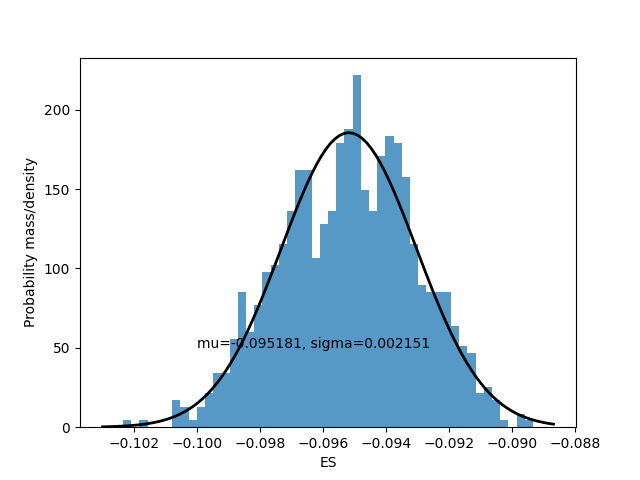
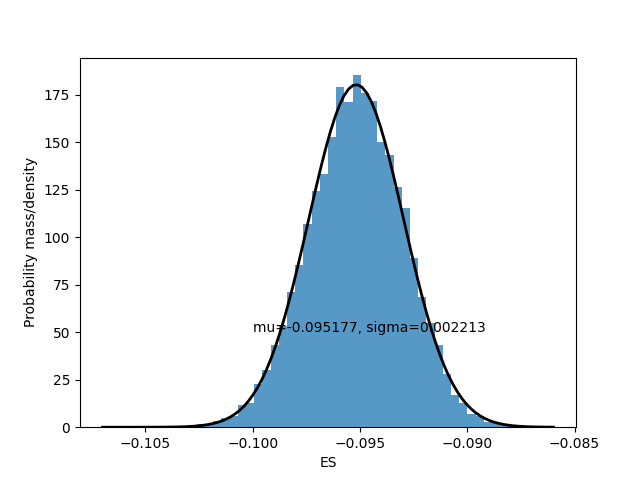
New results with 9000 samples

diff --git a/src/main.py b/src/main.py
@@ -9,7 +9,7 @@ visualizer.drawDataset(data)
 
 # Set up the prior distribution and additional data and pass into gibbs sampler
 y = data['log return'].to_numpy()
-mean_samples, tau_samples = modeller.gibbs_sampling(1000, modeller.gamma_sampler(0,0), modeller.normal_sampler(0,0),
+mean_samples, tau_samples = modeller.gibbs_sampling(10000, modeller.gamma_sampler(0,0), modeller.normal_sampler(0,0),
                                                     y, # Additional data
                                                     0.1, 0.1, 0, 0.001) # Prior parameters
 
@@ -18,8 +18,8 @@ visualizer.checkSamplerConvergence(mean_samples, "mean")
 visualizer.checkSamplerConvergence(tau_samples, "tau")
 
 # Pick the from the 100th sample for convergence
-mean_samples = mean_samples[100:]
-tau_samples = tau_samples[100:]
+mean_samples = mean_samples[1000:]
+tau_samples = tau_samples[1000:]
 
 visualizer.checkSamplerACF(mean_samples, "mean ACF")
 visualizer.checkSamplerACF(tau_samples, "tau ACF")
